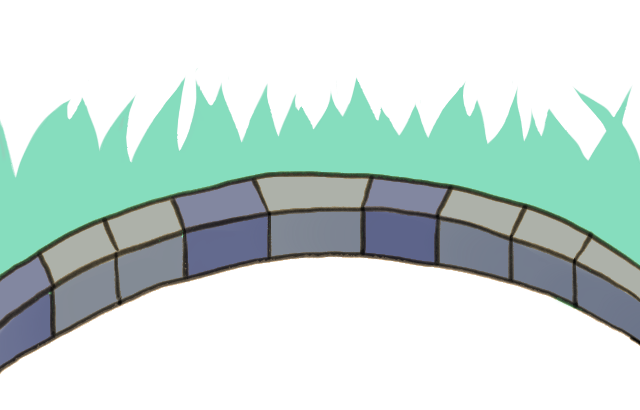
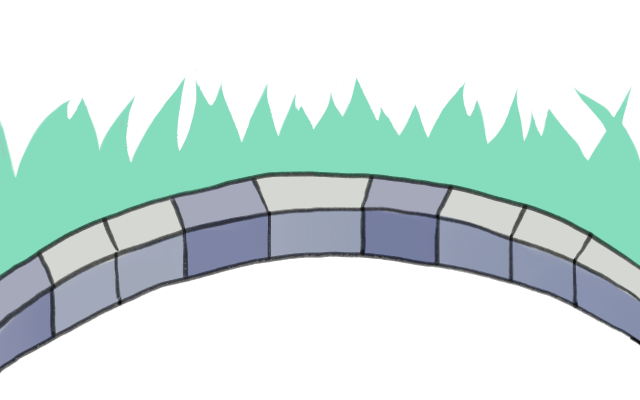
index画像、色修正

diff --git a/static/css/style.css b/static/css/style.css
@@ -23,22 +23,22 @@ html {
     background-attachment: fixed;
     background-size: 100%;
     background-position: center;
-    background-image: url("/static/img/in_htmlup.png"), url("/static/img/in_html00down.png");
+    background-image: url("/static/img/in_htmlup.png"), url("/static/img/in_htmldown.png");
     background-repeat: no-repeat, no-repeat;
     background-position: top, bottom;
-    background-color: black;
+    background-color: #362d4d;
   }
 
 /* ヘッダーフッター位置固定 */
 header {
     margin:0 auto;
     width: 100%;
-    height: 100px;
+    height: 50px;
     padding: 5px 0;
     top: 0;
 }
 footer {
-    background-color: white;
+    background-color: #ffe77e;
     margin:0 auto;
     width: 100%;
     height: 20px;
@@ -50,16 +50,16 @@ footer {
 
 /* サイトロゴサイズ調整 */
 .logo {
-    width: 90%;
+    width: 75%;
 }
 .sec0 {
     text-align: center;
-    margin-top: 60px;
+
 }
 
 /* ヘッダーミニロゴサイズ調整 */
 header img {
-    width: 70px;
+    width: 90%;
 }
 
 /* アイコン選択欄 */

diff --git a/templates/index.html b/templates/index.html
@@ -2,7 +2,7 @@
 {% block content %}
 
 <div class="sec0">
-<a href="in"><img src="static/img/titlelogo.png" class="logo"></a>
+<a href="in"><img src="static/img/titlelogo02.png" class="logo"></a>
 </div>
 
 {% endblock %}
